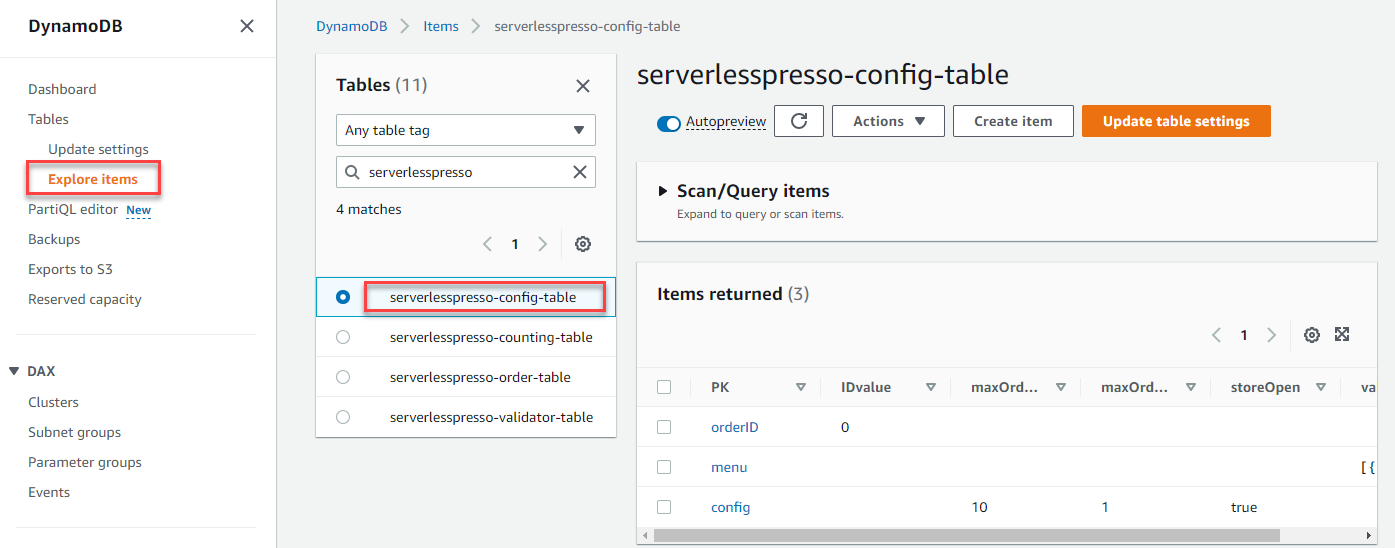
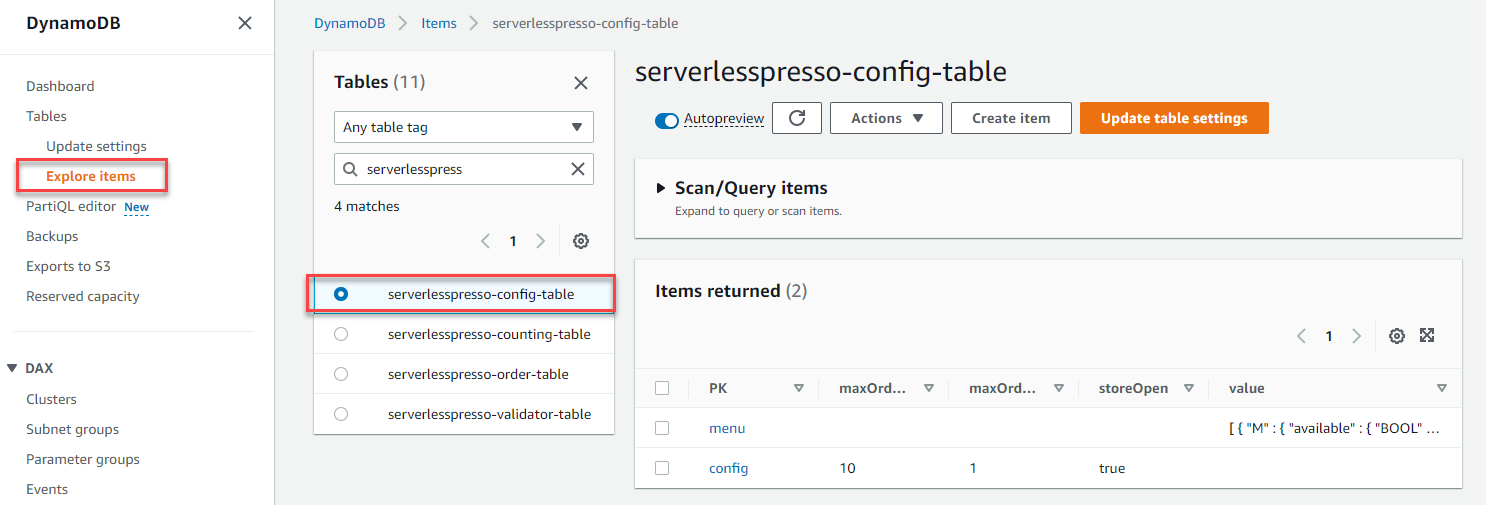
Updates

diff --git a/instructions/content/1-workflow/8-Testing/_index.en.md b/instructions/content/1-workflow/8-Testing/_index.en.md
@@ -22,8 +22,7 @@ The shop's state is stored in the DynamoDB configuration table for the applicati
 
 ![DynamoDB table view](../images/se-mod1-testing0.png)
 
-The three items in the table provide state information for different parts of the application:
-- **orderID**: Used by the workflow to increment the human-readable order ID for each drink order.
+The items in the table provide state information for different parts of the application:
 - **menu**: Used by the customer ordering frontend to display a valid list of drinks and modifiers for ordering.
 - **config**: Contains general settings, including whether the store is open or closed.
 
